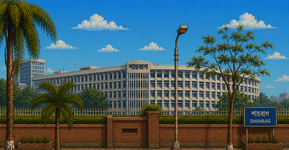
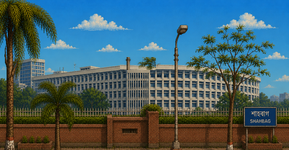
Sharp in-game Bangla, and scrub the garbled background text
The menus were fixed last time but the in-game HUD was not: player name,
stage label, boss names, "clear the street" and "go" were still being
drawn inside the 384x224 buffer and resampled twice. They now draw in
the post-upscale pass like everything else.

Boss names are Bangla images instead of English strings.

Also patched out the nonsense lettering the image generator stamped on
the Shahbag ministry facade. tools/clean_bg_text.py replaces a bad patch
with a clean strip lifted from the same rows elsewhere in the image, so
there is no seam. Add regions there as you spot more.

Changed region(s): [[0.4048, 0.3733, 0.5606, 0.48]]

diff --git a/src/main.cpp b/src/main.cpp
@@ -981,12 +981,14 @@ static void DrawWorld() {
     DrawRectangle(6, 6, 104, 8, { 0, 0, 0, 170 });
     DrawRectangle(7, 7, (int)(102 * (W.player.hp / (float)W.player.maxHp)), 6,
                   { 214, 60, 60, 255 });
-    DrawUIText(TX_C_ME, 7, 14, 15);
+    // (Bangla HUD labels are drawn later, in DrawHUDText, at window
+    //  resolution — inside this low-res buffer they get resampled twice
+    //  and Bengali turns to mush.)
     for (int i = 0; i < W.lives - 1; i++)
         DrawRectangle(48 + i * 7, 18, 5, 5, { 255, 200, 90, 255 });
 
     DrawTextSh(TextFormat("%07d", W.score), GAME_W - 62, 6, 10, RAYWHITE);
-    DrawUIText(TX_STAGE, GAME_W - 64, 16, 14, { 255, 255, 255, 200 });
+
     DrawTextSh(TextFormat("%d-%d", W.stage + 1, std::min(W.waveIdx + 1, s.waveCount)),
                GAME_W - 30, 17, 10, { 255, 255, 255, 170 });
 
@@ -1009,13 +1011,13 @@ static void DrawWorld() {
             DrawRectangle(bx - 1, by, bw + 2, 8, { 0, 0, 0, 190 });
             DrawRectangle(bx, by + 1, (int)(bw * (bs[i]->hp / (float)bs[i]->maxHp)), 6,
                           { 205, 40, 40, 255 });
-            DrawTextSh(nm, bx, by - 11, 10, { 255, 175, 175, 235 });
+            (void)nm;
         }
     }
 
     // "GO ->" once a wave is cleared
     if (W.goTimer > 0 && (W.goTimer / 8) % 2) {
-        DrawUITextC(TX_GO, GAME_W - 62, GAME_H / 2 - 24, 21, { 255, 225, 90, 255 });
+
         for (int i = 0; i < 3; i++)
             DrawTriangle({ (float)GAME_W - 34 + i * 9, (float)GAME_H / 2 + 4 },
                          { (float)GAME_W - 34 + i * 9, (float)GAME_H / 2 + 14 },
@@ -1023,7 +1025,7 @@ static void DrawWorld() {
                          { 255, 225, 90, 255 });
     }
     if (W.camLock && W.goTimer == 0 && !W.bossOut)
-        DrawUITextC(TX_CLEAR_ST, GAME_W / 2, GAME_H - 20, 16, { 255, 255, 255, 190 });
+
 
     if (g_debug) {
         DrawTextSh(TextFormat("px%.0f cam%d wv%d/%d act%d spwn%d alive%d boss%d st%d",
@@ -1070,6 +1072,39 @@ static void DrawBnNumber(int v, float cx, float y, float h, Color tint) {
     int px = (int)(cx * SCALE) - w / 2, py = (int)(y * SCALE);
     DrawText(buf, px + 2, py + 2, size, { 0, 0, 0, 200 });
     DrawText(buf, px, py, size, tint);
+}
+
+// Bangla labels that sit over the playfield. Drawn in the post-upscale pass at
+// window resolution, for the same reason as the menus: one resample, not two.
+static const int BOSS_TX[STAGE_COUNT] = { TX_B_SADDAM, TX_B_HARUN,
+                                          TX_B_KADER, TX_B_HASINA };
+
+static void DrawHUDText() {
+    const Stage& s = Cur();
+    if (W.st != GS_PLAY && W.st != GS_INTRO) return;
+
+    DrawUIText(TX_C_ME, 7, 14, 15);
+    DrawUIText(TX_STAGE, GAME_W - 64, 15, 15, { 255, 255, 255, 210 });
+
+    // boss names, in Bangla
+    {
+        const Fighter* bs[2] = { nullptr, nullptr };
+        int nb = 0;
+        for (const auto& e : W.enemies)
+            if (e.alive && e.isBoss && nb < 2) bs[nb++] = &e;
+        for (int i = 0; i < nb; i++) {
+            int tx = (bs[i]->kind == CK_JALLAD && bs[i]->kind != s.bossKind)
+                     ? TX_B_JALLAD : BOSS_TX[W.stage];
+            int bw = (nb > 1) ? 140 : 200;
+            int bx = (nb > 1) ? (i == 0 ? 16 : GAME_W - bw - 16) : (GAME_W - bw) / 2;
+            DrawUIText(tx, bx, 30, 15, { 255, 175, 175, 240 });
+        }
+    }
+
+    if (W.goTimer > 0 && (W.goTimer / 8) % 2)
+        DrawUITextC(TX_GO, GAME_W - 62, GAME_H / 2 - 26, 22, { 255, 225, 90, 255 });
+    if (W.camLock && W.goTimer == 0 && !W.bossOut)
+        DrawUITextC(TX_CLEAR_ST, GAME_W / 2, GAME_H - 22, 17, { 255, 255, 255, 210 });
 }
 
 static void DrawOverlay() {
@@ -1383,6 +1418,7 @@ static void Frame() {
             // Text goes on AFTER the upscale, at window resolution, so Bangla
             // is resampled once instead of twice and stays legible.
             SetUIScale((float)SCALE);
+            DrawHUDText();
             DrawOverlay();
             SetUIScale(1.0f);
         EndDrawing();
@@ -1393,6 +1429,7 @@ static void Frame() {
         }
     }
 }
+
 
 
 

diff --git a/tools/clean_bg_text.py b/tools/clean_bg_text.py
@@ -1,0 +1,42 @@
+"""Paint out the garbled text the image generator stamped onto backgrounds.
+
+    python tools/clean_bg_text.py
+
+AI-generated scenery routinely puts nonsense lettering on buildings and
+banners. At 384x224 it reads as noise, so each bad patch is replaced by a
+clean strip lifted from the same rows elsewhere in the image — same lighting,
+same texture, no visible seam.
+
+Regions are (x0, y0, x1, y1, source_x) in the SMALL bg<N>_far.png coordinates.
+`source_x` is where to copy the replacement strip from, at the same rows.
+"""
+import os
+from PIL import Image, ImageFilter
+
+PATCHES = {
+    # Shahbag: gibberish stamped across the ministry facade
+    "bg0_far.png": [(120, 57, 156, 70, 168)],
+    # the rest are checked by eye; add entries here as you spot them
+    "bg1_far.png": [],
+    "bg2_far.png": [],
+    "bg3_far.png": [],
+}
+
+
+def clean(name, regions):
+    path = os.path.join("assets", name)
+    if not os.path.exists(path) or not regions:
+        return
+    im = Image.open(path).convert("RGBA")
+    for (x0, y0, x1, y1, sx) in regions:
+        w, h = x1 - x0, y1 - y0
+        strip = im.crop((sx, y0, sx + w, y1))
+        # a touch of blur hides the join where the copied texture meets
+        strip = strip.filter(ImageFilter.GaussianBlur(0.4))
+        im.paste(strip, (x0, y0))
+    im.save(path)
+    print(f"{name}: patched {len(regions)} region(s)")
+
+
+for n, r in PATCHES.items():
+    clean(n, r)
